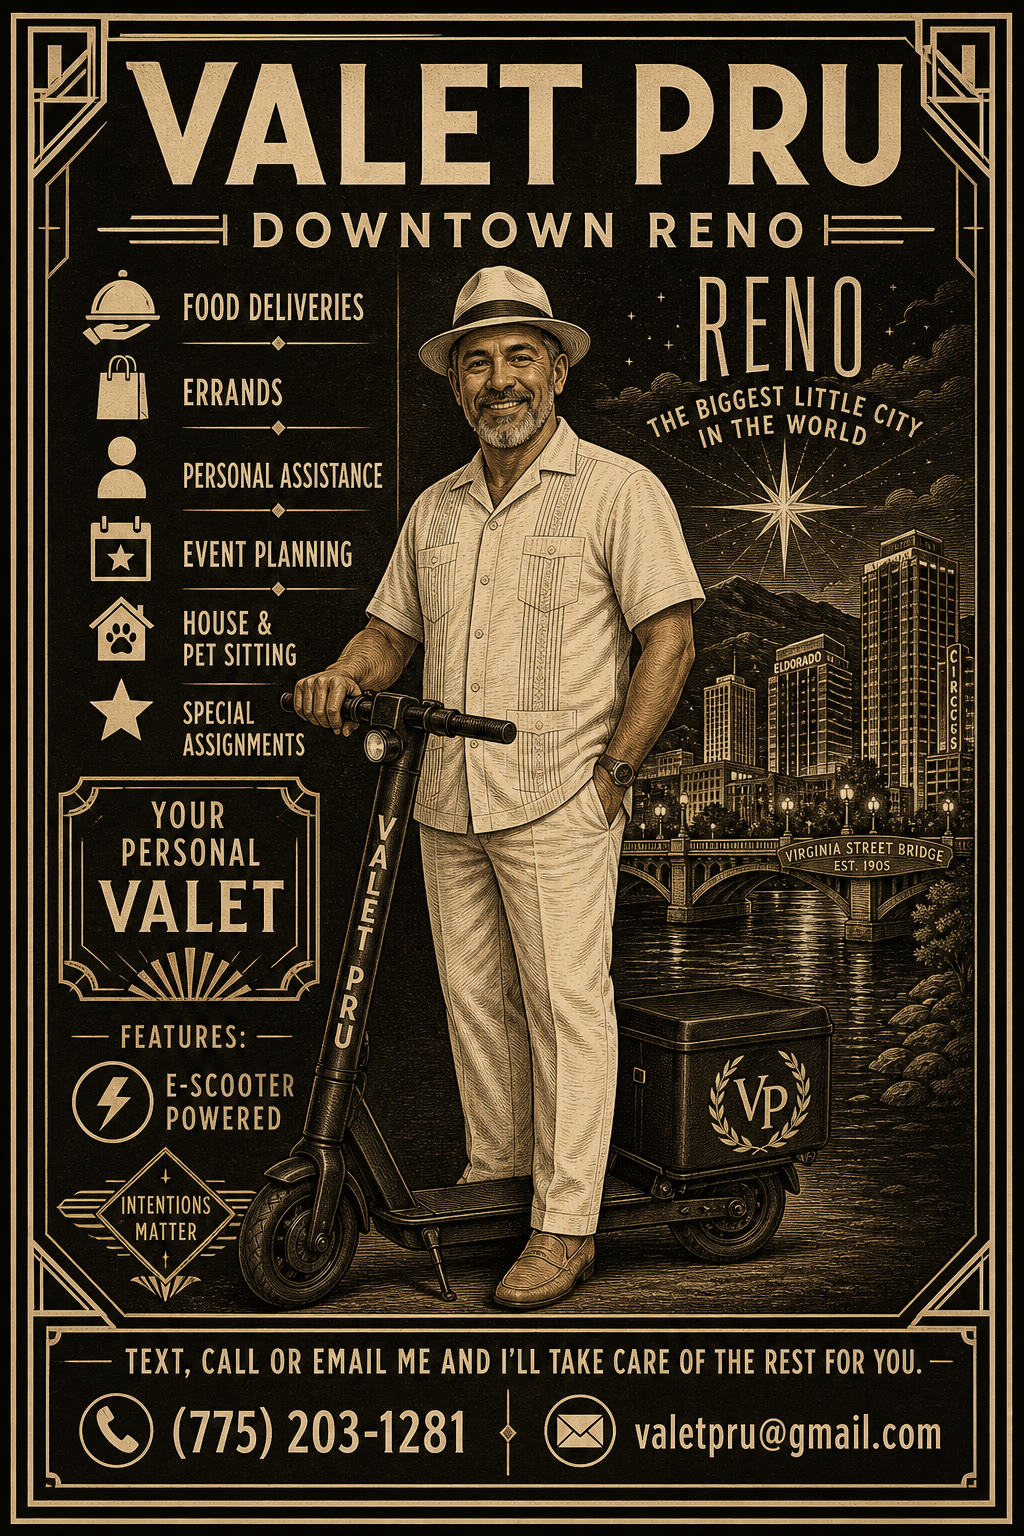
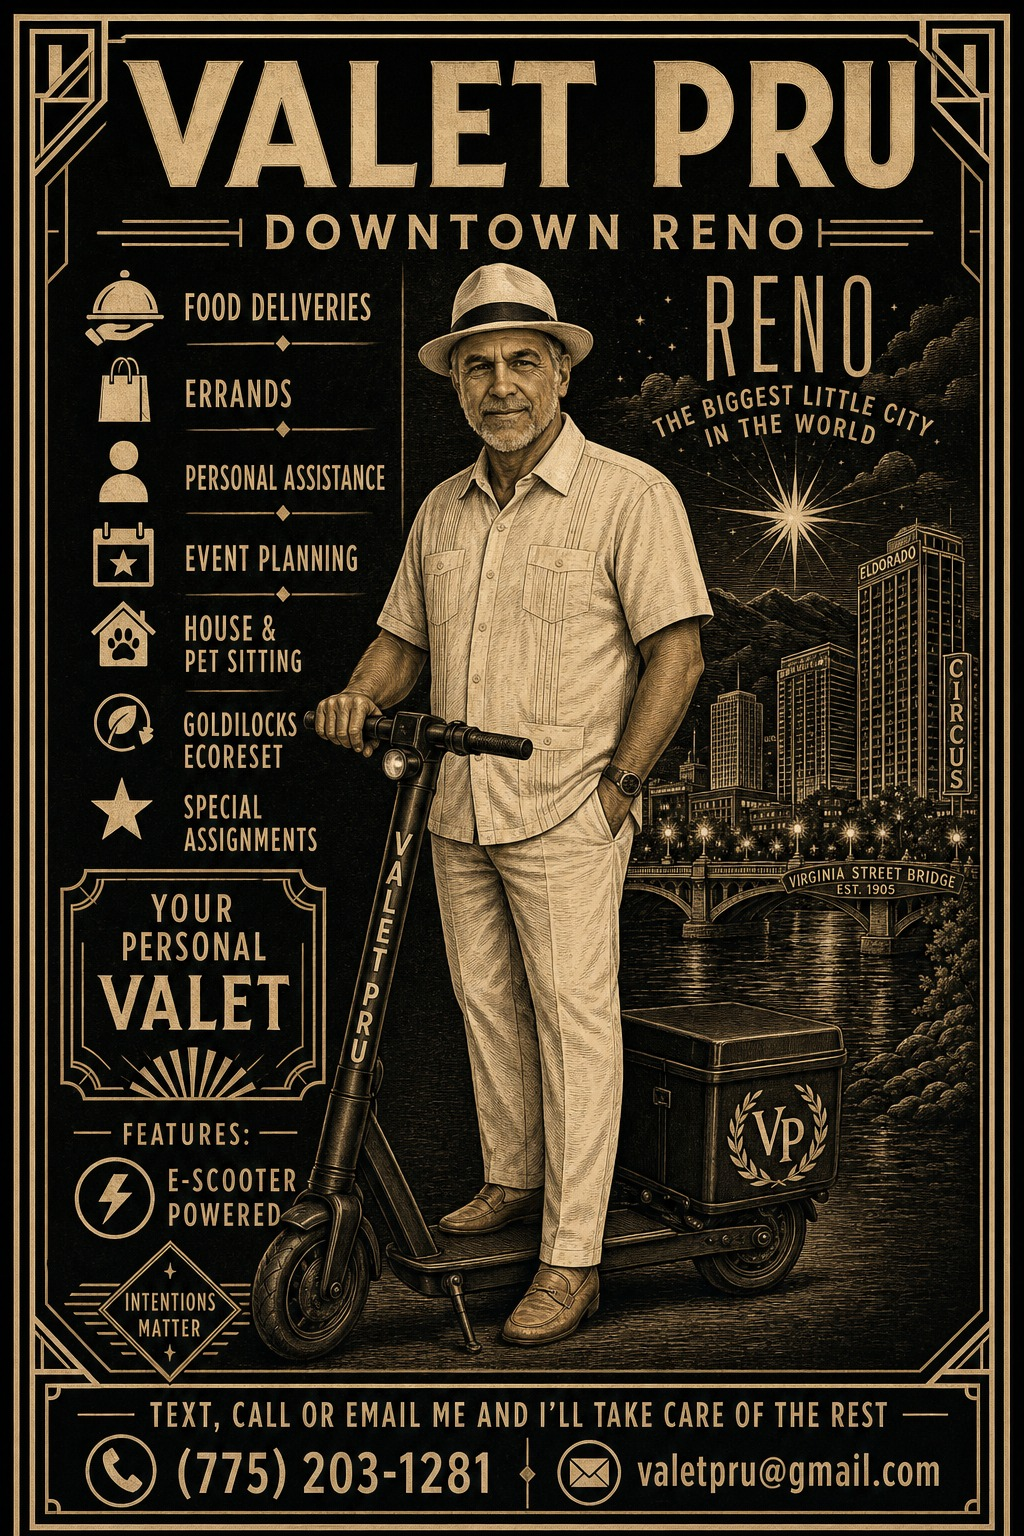
Refresh Concierge surfaces and QUESTFEST cruise-ship hero.
Add Goldilocks EcoReset to Valet Pru services and flyer, drop affordable hourly rates marketing, replace the Concierge poster with a Pru-likeness art, and swap the QUESTFEST airplane hero for an SS Vibelandia cruise ship background.

diff --git a/interfaces/goldilocks-deliveries/grs-flyer.js b/interfaces/goldilocks-deliveries/grs-flyer.js
@@ -119,18 +119,19 @@
       'Food deliveries · Errands · Pharmacy pickup',
       'Personal assistance · Event planning',
       'House & pet sitting · Hotel / Airbnb help',
+      'Goldilocks EcoReset Service',
       'E-scooter courier · Downtown · Midtown · Idlewild'
     ];
-    ctx.font = '500 28px Inter, system-ui, sans-serif';
+    ctx.font = '500 26px Inter, system-ui, sans-serif';
     ctx.fillStyle = '#d6cfc4';
-    var y = 340;
+    var y = 325;
     for (var i = 0; i < services.length; i++) {
       ctx.fillText('·  ' + services[i], left, y);
-      y += 48;
+      y += 40;
     }
 
     // Contact card
-    roundRect(ctx, left, 560, 520, 280, 18);
+    roundRect(ctx, left, 545, 520, 280, 18);
     ctx.fillStyle = 'rgba(26,18,12,0.72)';
     ctx.fill();
     ctx.strokeStyle = 'rgba(212,175,55,0.4)';
@@ -139,20 +140,20 @@
 
     ctx.fillStyle = '#fef3c7';
     ctx.font = '700 26px Inter, system-ui, sans-serif';
-    ctx.fillText('BOOK NOW', left + 36, 615);
+    ctx.fillText('BOOK NOW', left + 36, 600);
     ctx.fillStyle = '#f5e6c8';
     ctx.font = '600 36px Inter, system-ui, sans-serif';
-    ctx.fillText('(775) 203-1281', left + 36, 675);
+    ctx.fillText('(775) 203-1281', left + 36, 660);
     ctx.font = '500 26px Inter, system-ui, sans-serif';
     ctx.fillStyle = '#d4af37';
-    ctx.fillText('valetpru@gmail.com', left + 36, 725);
+    ctx.fillText('valetpru@gmail.com', left + 36, 710);
     ctx.fillStyle = '#a8a29e';
     ctx.font = '400 22px Inter, system-ui, sans-serif';
-    ctx.fillText('Text, call, or email — I’ll take care of the rest.', left + 36, 780);
+    ctx.fillText('Text, call, or email — I’ll take care of the rest.', left + 36, 765);
 
     // QR panel
     var qx = 1340;
-    var qy = 560;
+    var qy = 545;
     var qs = 320;
     roundRect(ctx, qx - 16, qy - 16, qs + 32, qs + 100, 18);
     ctx.fillStyle = '#ffffff';

diff --git a/interfaces/vibelandia-questfest.html b/interfaces/vibelandia-questfest.html
@@ -16,9 +16,9 @@
   <meta name="twitter:card" content="summary_large_image" />
   <meta name="twitter:title" content="SS Vibelandia™ · Real help in Downtown Reno and beyond" />
   <meta name="twitter:description" content="QUESTFEST · Valet Pru · real help in Downtown Reno and beyond · Midtown · 24×365." />
-  <meta name="twitter:image" content="https://www.ssvibelandiaquestfest24x365.com/interfaces/assets/questfest-hero-ss-vibelandia-puerto-reno.png" />
+  <meta name="twitter:image" content="https://www.ssvibelandiaquestfest24x365.com/interfaces/assets/questfest-hero-ss-vibelandia-cruiseship.png" />
   <meta property="og:type" content="website" />
-  <meta property="og:image" content="https://www.ssvibelandiaquestfest24x365.com/interfaces/assets/questfest-hero-ss-vibelandia-puerto-reno.png" />
+  <meta property="og:image" content="https://www.ssvibelandiaquestfest24x365.com/interfaces/assets/questfest-hero-ss-vibelandia-cruiseship.png" />
   <meta property="og:url" content="https://www.ssvibelandiaquestfest24x365.com/interfaces/vibelandia-questfest.html" />
   <link rel="canonical" href="https://www.ssvibelandiaquestfest24x365.com/interfaces/vibelandia-questfest.html" />
   <link rel="preconnect" href="https://fonts.googleapis.com">
@@ -70,7 +70,7 @@
       background:
         linear-gradient(180deg, rgba(26,18,12,0.25) 0%, rgba(10,8,6,0.82) 48%, var(--bg) 100%),
         linear-gradient(120deg, rgba(212,175,55,0.12) 0%, transparent 42%),
-        url('assets/questfest-hero-ss-vibelandia-puerto-reno.png') center 42% / cover no-repeat;
+        url('assets/questfest-hero-ss-vibelandia-cruiseship.png') center 42% / cover no-repeat;
       min-height: min(88vh, 720px);
       position: relative;
     }

diff --git a/interfaces/goldilocks-deliveries/index.html b/interfaces/goldilocks-deliveries/index.html
@@ -32,7 +32,7 @@
       src="/interfaces/goldilocks-deliveries/assets/valet-pru-downtown-reno-poster.jpg"
       width="1024"
       height="1536"
-      alt="Valet Pru · Downtown Reno — Art Deco poster for personal concierge: food deliveries, errands, personal assistance, event planning, house and pet sitting, special assignments. E-scooter powered. Text, call, or email (775) 203-1281 · valetpru@gmail.com"
+      alt="Valet Pru · Downtown Reno — Art Deco poster for personal concierge: food deliveries, errands, personal assistance, event planning, house and pet sitting, Goldilocks EcoReset, special assignments. E-scooter powered. Text, call, or email (775) 203-1281 · valetpru@gmail.com"
       decoding="async"
       fetchpriority="high"
     />
@@ -85,6 +85,7 @@
         <li>Personal assistance</li>
         <li>Event planning</li>
         <li>House &amp; pet sitting</li>
+        <li>Goldilocks EcoReset Service</li>
         <li>Special assignments</li>
         <li>Pharmacy pickup</li>
         <li>Hotel and Airbnb guest assistance</li>
@@ -101,7 +102,6 @@
         <li>Fair for operators — your valet keeps <strong>67%</strong>, not a gig-app squeeze</li>
         <li>Local knowledge</li>
         <li>Reliable personal service</li>
-        <li>Affordable hourly rates</li>
         <li>Real human assistance — not another app</li>
       </ul>
     </section>

diff --git a/interfaces/goldilocks-deliveries/flyer.html b/interfaces/goldilocks-deliveries/flyer.html
@@ -124,8 +124,8 @@
     ul {
       margin: 0;
       padding-left: 0.18in;
-      font-size: 8.5pt;
-      line-height: 1.45;
+      font-size: 8pt;
+      line-height: 1.35;
       color: #d6cfc4;
     }
     .contact {
@@ -212,6 +212,7 @@
           <li>Food, errands, pharmacy pickup</li>
           <li>Personal assistance · events</li>
           <li>House &amp; pet sitting · hotel help</li>
+          <li>Goldilocks EcoReset Service</li>
           <li>E-scooter courier · no sprawl markup</li>
         </ul>
         <div class="contact">
